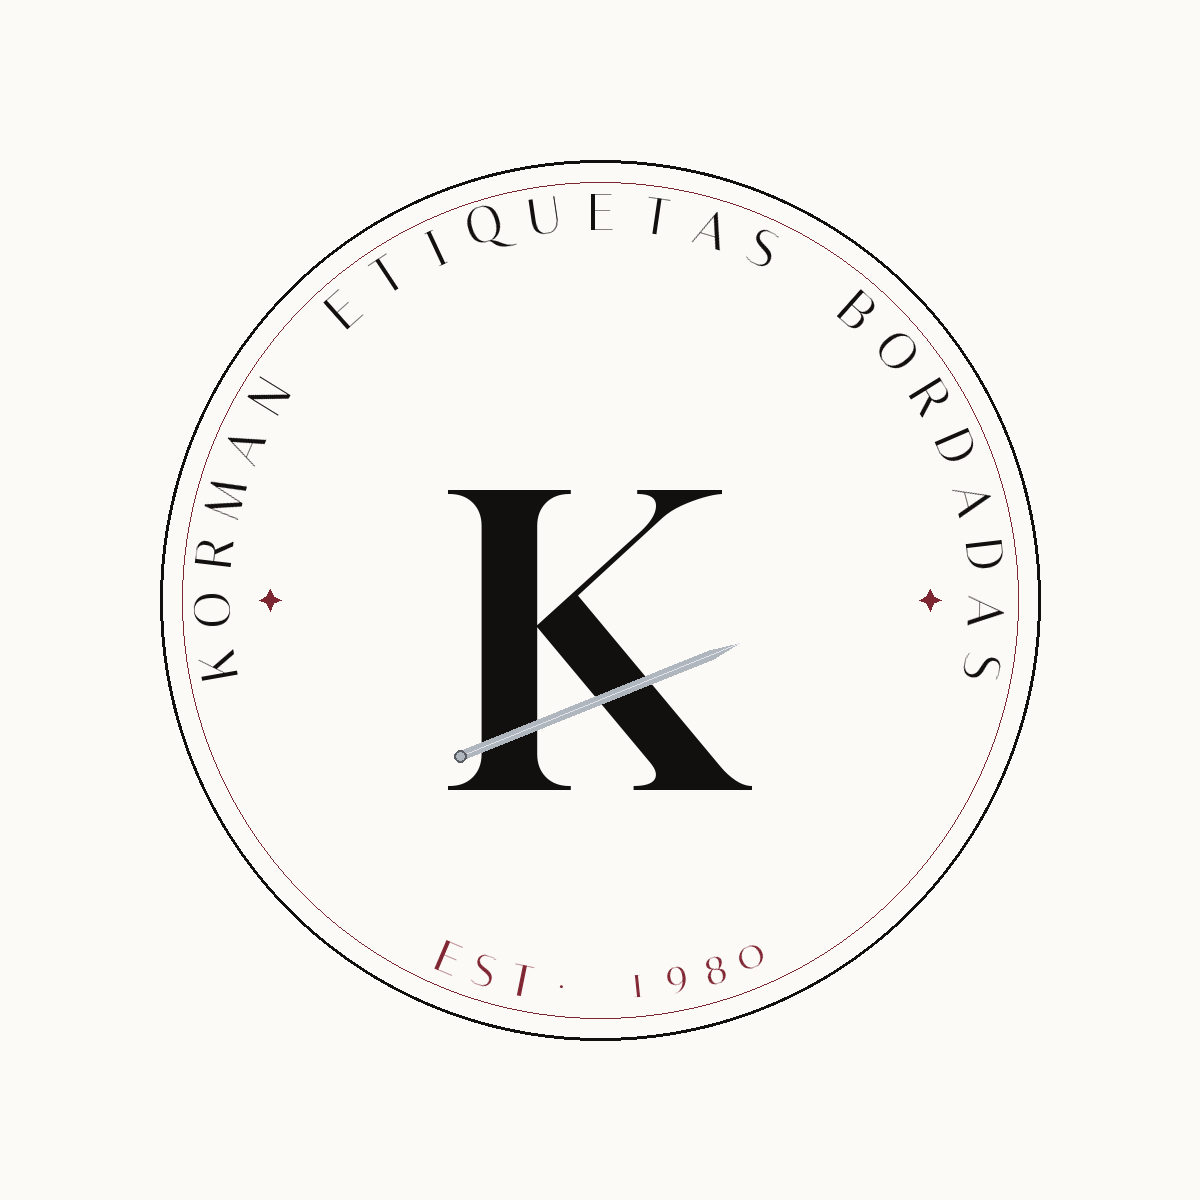
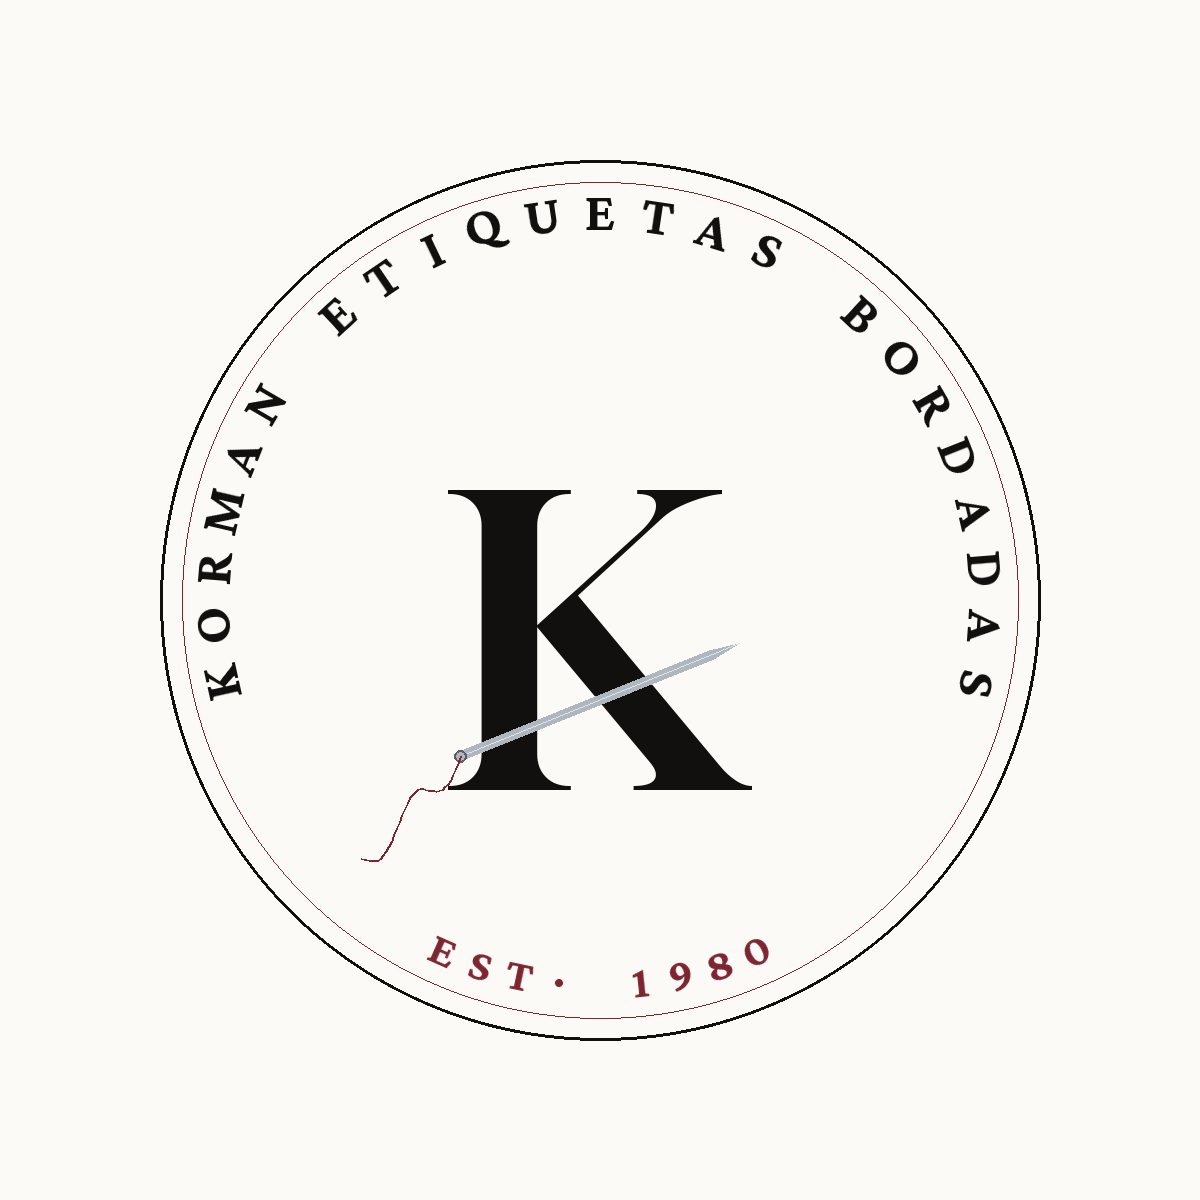
Sello circular limpio: sin estrellas, letras serif rellenas legibles, aguja con hilo bordo
Claude-Session: https://claude.ai/code/session_017RDuaEkxS43SZ1xs4UNenw

diff --git a/generate_logo_circular_medio.py b/generate_logo_circular_medio.py
@@ -63,15 +63,21 @@ def limpio():
     cx=cy=S//2
     d.ellipse([cx-440,cy-440,cx+440,cy+440], outline=BLACK, width=3)
     d.ellipse([cx-418,cy-418,cx+418,cy+418], outline=BORDO, width=1)
-    texto_arco(img,cx,cy,388,"KORMAN ETIQUETAS BORDADAS",fnt("Italiana-Regular.ttf",52),BLACK,-90,200)
-    texto_arco(img,cx,cy,388,"EST. 1980",fnt("Italiana-Regular.ttf",44),BORDO,90,46,flip=True)
+    # letras rellenas (serif bold) para que se lean bien en Instagram
+    texto_arco(img,cx,cy,386,"KORMAN ETIQUETAS BORDADAS",fnt("CrimsonPro-Bold.ttf",54),BLACK,-90,205)
+    texto_arco(img,cx,cy,386,"EST. 1980",fnt("CrimsonPro-Bold.ttf",46),BORDO,90,48,flip=True)
     d = ImageDraw.Draw(img)
-    estrella4(d,cx-330,cy,11,BORDO); estrella4(d,cx+330,cy,11,BORDO)
     f_k = fnt("Gloock-Regular.ttf",400)
     while tw(d,"K",f_k)>340: f_k=fnt("Gloock-Regular.ttf",f_k.size-6)
     kw,kh=tw(d,"K",f_k),th(d,"K",f_k)
     d.text((cx-kw//2,cy-kh//2-50),"K",font=f_k,fill=BLACK)
-    aguja(d,cx,cy+100,math.radians(-22),300,hw=5)
+    # aguja con hilo
+    ax1,ay1=aguja(d,cx,cy+100,math.radians(-22),300,hw=5)
+    px,py=ax1,ay1
+    for t in range(0,150,4):
+        a=math.radians(-22)
+        xx=ax1-t*math.cos(a-0.45); yy=ay1-t*math.sin(a-0.45)+int(15*math.sin(t/15))
+        d.line([(px,py),(xx,yy)],fill=BORDO,width=2); px,py=xx,yy
     img.save(OUT+"1-limpio.png","PNG",dpi=(300,300)); print("✓ 1-limpio.png")
 
 # ── 2 · UN ANILLO GUILLOCHÉ SUAVE ───────────────────────────────────
